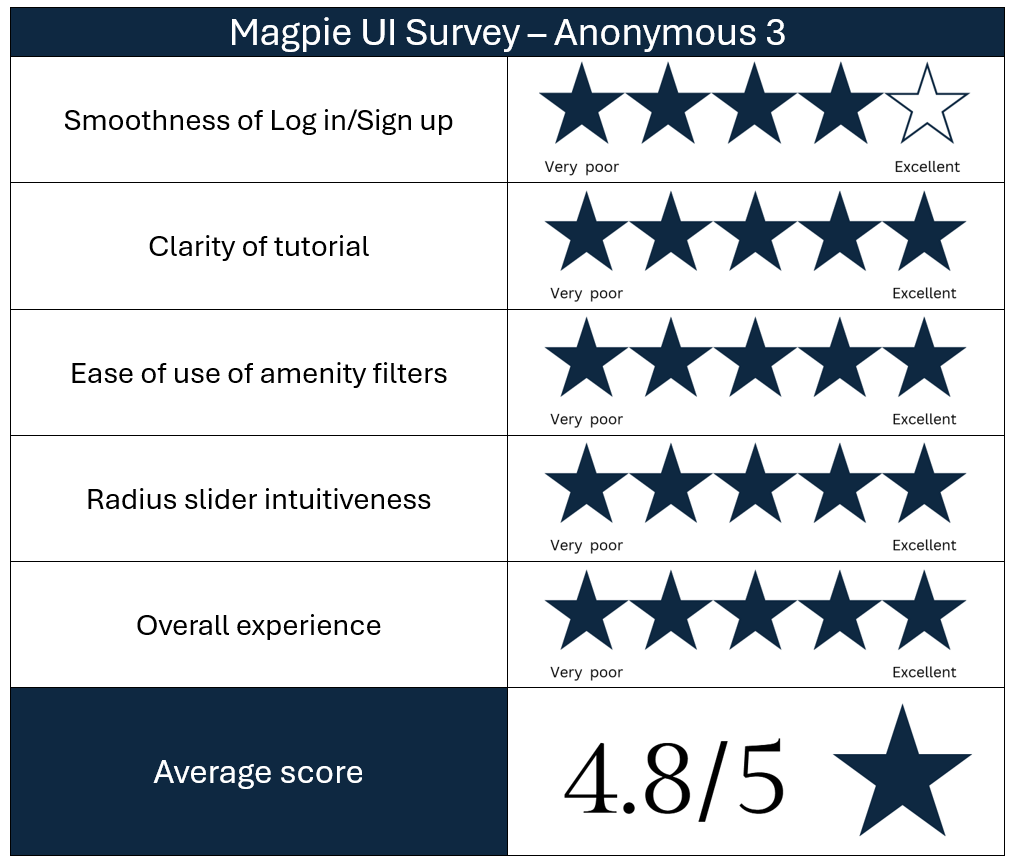
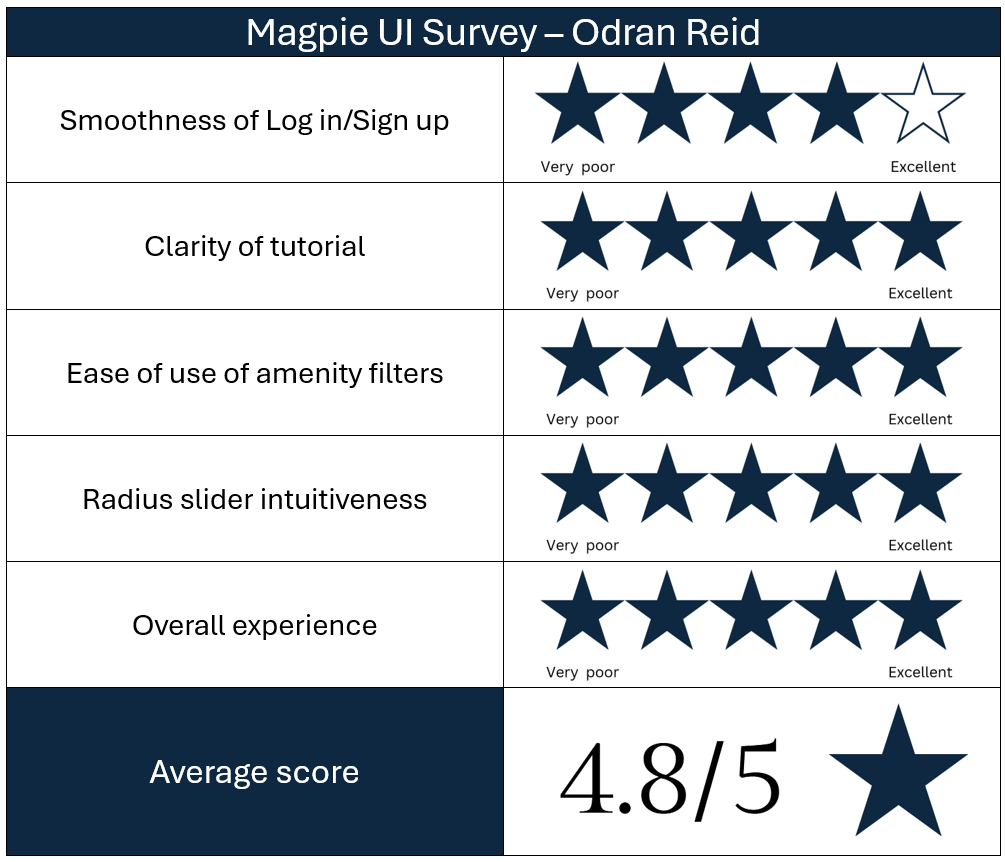
Update user eval
replace some blurry figures + review content for target user evaluation

diff --git a/Documentation/final-report/pages/evaluation/target_evaluation.tex b/Documentation/final-report/pages/evaluation/target_evaluation.tex
@@ -1,12 +1,11 @@
 Targeted users are users who would use Magpie as a tool for their work. We interviewed 3 individuals who fit this criteria.\\ \\
-Usability test sessions took the following format:
+The targeted user test sessions took the following format:
 \begin{enumerate}
-    \item Getting to know
-    \item Introduction of Magpie
-    \item Exploring Magpie + Discussion
-    \item Satisfaction survey + End of session
+    \item \textbf{Getting to know:} this first step is designed to introduce ourselves to the participants, inform ourselves of their background and occupation and set the tone for the rest of the session.
+    \item \textbf{Introduction of Magpie:} this second step serves to give an overview of Magpie's purpose, features, data displayed and functionalities.
+    \item \textbf{Exploring Magpie + Discussion:} this third step will allow the participants to explore the application, ask question and reflect on how Magpie can be used to meet their needs for their work.
+    \item \textbf{Satisfaction survey + End of session:} this last step serves to conclude the session by asking the participants to fill in a satisfaction survey to quantify their experience using Magpie.
 \end{enumerate}
-Getting to know the professional user is the first step. It is relevant to the session because it helps inform the type of targeted user they are, their knowledge of technology, their experience using amenity data, the tools they have used and their perspective regarding amenities.
 
 \subsubsection{User 7 - Bryan Boyle}
 Bryan Boyle is a lecturer at the University of Cork in Occupational sciences and Therapy.\\ With a doctorate in computer science and occupational therapy, they have published several papers related to inclusivity in public spaces (\cite{bryanboyleplaygroundinclusion2023}), and the role of technology in the lives of individuals with disabilities (\cite{bryanboylechildrenautism2022}).\\ \\
@@ -73,22 +72,23 @@ The survey answers below complement his vocal feedback. \textbf{Overall}, Bryan 
 \end{figure}\\
 
 \newpage
-\subsubsection{User 8 - Anonymous 2}
-Professional user Anonymous 2 (Sarah) has a background in urban planning, transport planning and education. We seeked out Anonymous user 2 through social media channels and they agreed to take part in a usability testing session.\\
+\subsubsection{User 8 - Dr. Sarah Rock}
+Professional user Dr. Sarah Rock is a transport and urban planning specialist with over 15 years of experience working in both the private and public sector. As chair of the Msc in Urban Regeneration at the TU Dublin School of Architecture, she pushes for sustainable and innovative solutions to land use and urbanisation, specialising in ccessibility planning and network design.\\
+We recruited them through social media channels to take part in a user testing session.\\
 They mostly use amenity data to understand an existing area that has plans for upgrade or demolitions, as well as studying transportation routes to plan new stops and service new areas.\\
 %sarah amenity info
 \begin{figure}[h!]
     \centering
     \includegraphics[width=0.8\textwidth]{images/sarah-amenity-info.png}
-    \caption{User Evaluation - Anonymous 2 information}
+    \caption{User Evaluation - Dr. Sarah Rock information}
 \end{figure}
 
-\noindent Next, Anonymous 2 loaded the Magpie application and started exploring, whilst discussing each and every feature. They were able to complete all general tasks while skipping a few.\\
+\noindent Next, Dr. Rock loaded the Magpie application and started exploring, whilst discussing each and every feature. They were able to complete all general tasks while skipping a few.\\
 One question they asked was really interesting: \emph{how do we define amenities?}\\ Different professions within urban/transport/city planning define amenities in different ways, and they found our way of defining it interesting and slightly different from the way they would've defined it: \emph{`Amenities are any sort of public facilities that you can use.'}\\
 %table of Sarah's general tasks
 \begin{table}[h!]
     \centering
-    \caption{Usability testing Tasks - Anonymous 2}
+    \caption{Usability testing Tasks - Dr. Sarah Rock}
     \begin{tabular}{|p{0.3\textwidth}|p{0.1\textwidth}|p{0.1\textwidth}|p{0.2\textwidth}|}
         \hline
         \textbf{Task}                 & \textbf{Status} & \textbf{Difficulty} & \textbf{Errors}                 \\
@@ -122,45 +122,46 @@ One question they asked was really interesting: \emph{how do we define amenities
     \end{tabular}
 \end{table}
 
-\newpage Here were the main takeaways from Anonymous 2's session:
+\newpage Here were the main takeaways from Dr. Rock's session:
 \begin{itemize}
     \item \textbf{Data:} the tooltips on each icon is very interesting. Perhaps cross-check the information there and add/remove details. For example, the bike sharing amenity tooltip has name, number and address but the number seems to be an id and not the number of bikes at the bike sharing station.\\
-    \item \textbf{Additional features:} for their work, Anonymous 2 likes to have a satellite view of the area they are inspecting. They found that when they are zoomed in at the street level, they find it hard to understand the map. Perhaps adding a satellite layer for enhanced visualisation.\\ Also, an export feature would be amazing, with a scale and table of the amenities found on the location selected on the map.\\
+    \item \textbf{Additional features:} for their work, Dr. Rock likes to have a satellite view of the area they are inspecting. They found that when they are zoomed in at the street level, they find it hard to understand the map. Perhaps adding a satellite layer for enhanced visualisation.\\ Also, an export feature would be amazing, with a scale and table of the amenities found on the location selected on the map.\\
     \item \textbf{Miscellaneous:} the car parking amenity has lots of potential because it relates to the use of public space which is very contested and a big issue in urban planning. Magpie displays that information in an easy manner and there is so much potential to expand the parking detection and help fuel research on how much cars take up public space in cities and inefficiencies using public space for parking especially with limited land.
 \end{itemize}
-\textbf{Overall}, this is a fascinating and really useful project in its own right. The radius slider is great, the amenity count is very useful, Anonymous 2 can see Magpie being used for planning and research not so much casual user. Points to improve would be more amenity data and revise the information on the amenity tooltips. They scored Magpie's UI a \underline{4.6 out of 5}, the tutorial and the filters losing a star for lack of clarity and intuitiveness.
+\textbf{Overall}, this is a fascinating and really useful project in its own right. The radius slider is great, the amenity count is very useful, Dr. Rock can see Magpie being used for planning and research not so much casual user. Points to improve would be more amenity data and revise the information on the amenity tooltips. They scored Magpie's UI a \underline{4.6 out of 5}, the tutorial and the filters losing a star for lack of clarity and intuitiveness.
 %sarah survey response
 \begin{figure}[h!]
     \centering
     \includegraphics[width=0.7\textwidth]{images/survey-sarah.png}
-    \caption{User Evaluation - UI Score Anonymous 2}
+    \caption{User Evaluation - UI Score Dr. Sarah Rock}
 \end{figure}\\
 
 
 \newpage
-\subsubsection{User 9 - Anonymous 3}
-Professional user Anonymous 3 (Odran) has a background in town planning, economics, local development and education. We seeked out Anonymous user 3 through social media channels and they agreed to take part in a usability testing session.\\
+\subsubsection{User 9 - Odran Reid}
+Professional user Odran Reid has over 30 years of experience in the public, private and NGO sector in Europe. With degrees in economics from Trinity and spatial planning from TU Dublin, they specialise in retail planning, socio-economic analysis and community consultation for local development projects. They are currently a lecturer in spatial planning at the TU Dublin School of Architecture.\\
+We recruited them through social media channels to take part in a user testing session.\\
 They mostly use amenity data for socio-economic research and consulting for community project developments.\\
 %odran amenity info
 \begin{figure}[h!]
     \centering
     \includegraphics[width=0.8\textwidth]{images/odran-amenity-info.png}
-    \caption{User Evaluation - Anonymous 3 information}
+    \caption{User Evaluation - Odran Reid information}
 \end{figure}
 
-\noindent Before the session started, Anonymous 3 told us they qualified their technological proficiency as `very low' and to be patient with him. This was confirmed when he struggled to share his screen at the start of the session, however he was very comfortable navigating the map, zooming in and out and using the features of the dashboard. Here were the main takeaways:
+\noindent Before the session started, Odran Reid told us they qualified their technological proficiency as `very low' and to be patient with him. This was confirmed when he struggled to share his screen at the start of the session, however he was very comfortable navigating the map, zooming in and out and using the features of the dashboard. Here were the main takeaways:
 \begin{itemize}
     \item \textbf{Amenities:} some minor content changes related to the labelling of amenities, for example `library' should be `public library', `public wifi' should be `free public wifi' etc\ldots Also, it would be beneficial to differentiate the types of bike sharing system (Dublin Bikes, Bleeper, Moby Bikes).\\ More data should be added like schools, public transportation, zoning information, vacant buildings and population data to calculate amenity per capita for example.\\
     \item \textbf{Features:} giving the user the chance to draw their own radius could be very interesting. Also, adding a `300 meters' preset for the radius slider would cater to planners more because of the 15 minute walkable rule.\\ This rule defines that 300m is a walkable distance for abled individuals and is used a lot in retail/town planning.\\
-    \item \textbf{Miscellaneous:} Anonymous 3 suggested we take a look at the website \emph{Dublin Smart City} and \emph{POBAL} for more datasets relevant to our project. Improve Magpie with the suggestions above could help with research into evaluating the walkability of Dublin city.
+    \item \textbf{Miscellaneous:} Odran Reid suggested we take a look at the website \emph{Dublin Smart City} and \emph{POBAL} for more datasets relevant to our project. Improve Magpie with the suggestions above could help with research into evaluating the walkability of Dublin city.
 \end{itemize}
-\textbf{Overall}, Anonymous 3 gave some really interesting feedback, different from the other two targeted users. They believe Magpie has commercial potential but needs a lot more datasets and a lot more details to turn this into the go-to tool for planners in any sector. They expressed how they would've enjoyed having this tool earlier on for their consulting work.\\ \\
+\textbf{Overall}, Odran Reid gave some really interesting feedback, different from the other two targeted users. They believe Magpie has commercial potential but needs a lot more datasets and a lot more details to turn this into the go-to tool for planners in any sector. They expressed how they would've enjoyed having this tool earlier on for their consulting work.\\ \\
 They scored Magpie's UI a \underline{4.6 out of 5}, the log in and sign up losing a star for lack of email verification and smoothness.
 %odran survey response
 \begin{figure}[h!]
     \centering
     \includegraphics[width=0.7\textwidth]{images/survey-odran.png}
-    \caption{User Evaluation - UI Score Anonymous 3}
+    \caption{User Evaluation - UI Score Odran Reid}
 \end{figure}\\
 
 \newpage
